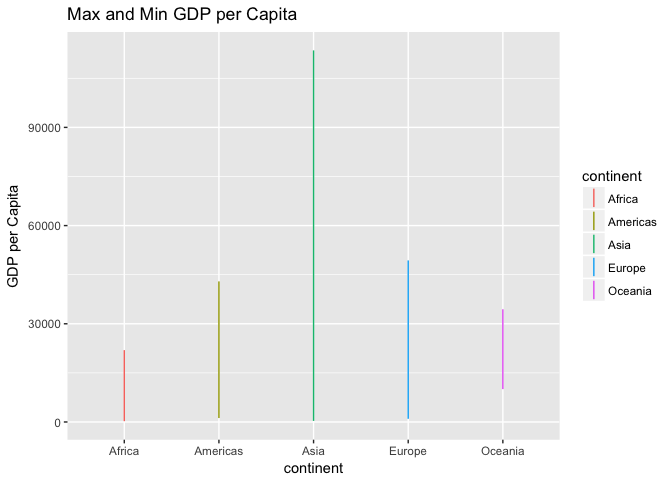
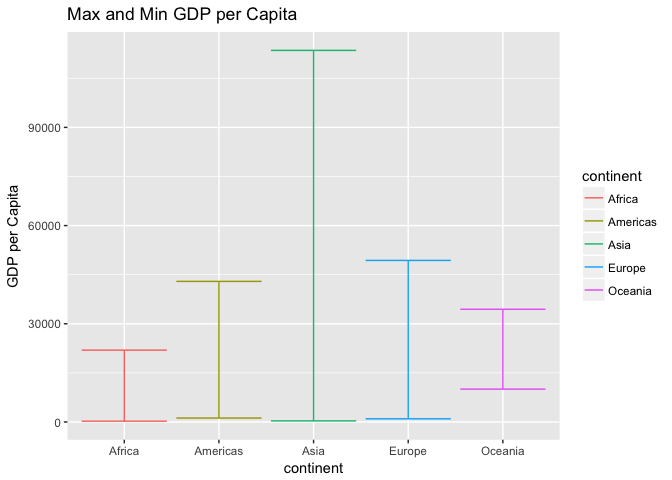
Pushing additions

diff --git a/hw_03/hw03_dplyr.md b/hw_03/hw03_dplyr.md
@@ -75,7 +75,7 @@ summary_gdpPercap %>%
 ``` r
 ## Display values in a table
 ggplot(summary_gdpPercap, aes(x=continent, color = continent)) +
-       geom_linerange(aes(ymin=Minimum, ymax=Maximum))+
+       geom_errorbar(aes(ymin=Minimum, ymax=Maximum))+
        ggtitle("Max and Min GDP per Capita") +
        ylab("GDP per Capita")
 ```
